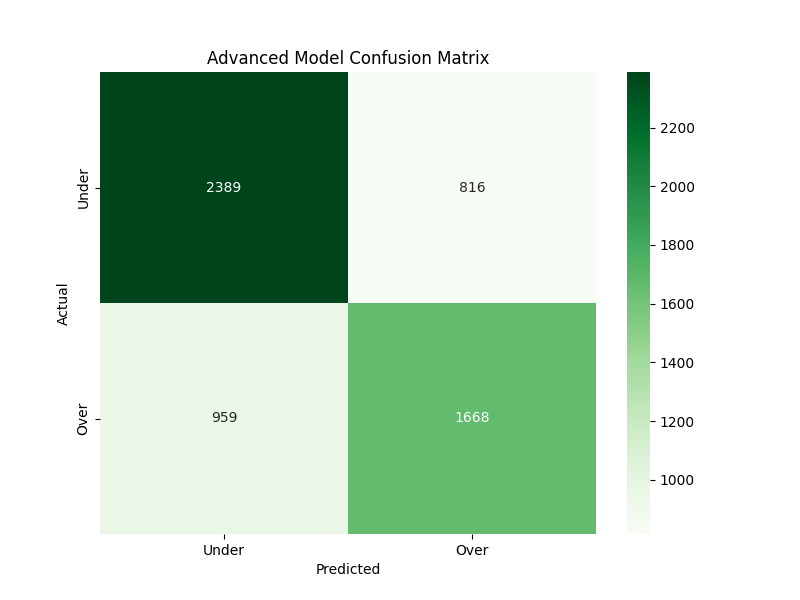
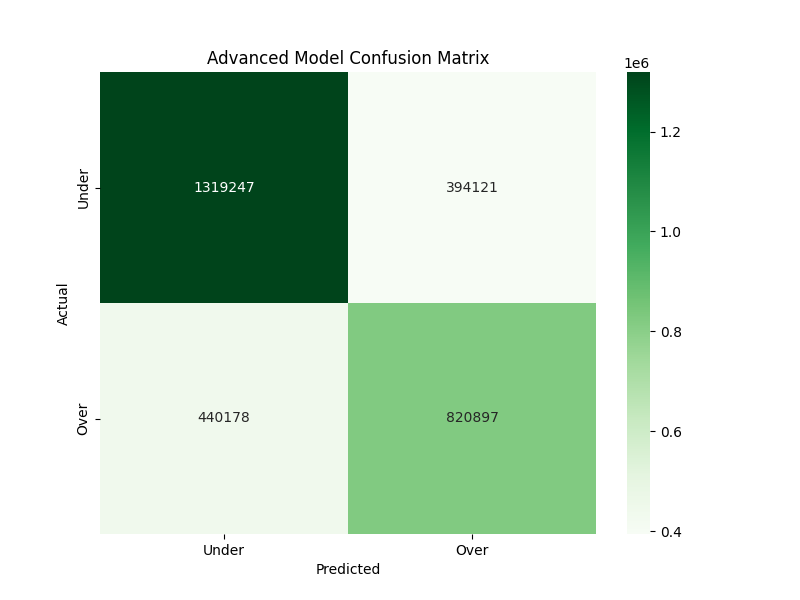
feat: Retrain model with odds and improve data pipeline

diff --git a/run_pipeline.py b/run_pipeline.py
@@ -16,7 +16,41 @@ from src.feature_engineering.team_features import TeamFeatures
 from src.data_collection.sportsbook_scraper import scrape_all_sportsbooks
 from src.utils.config import config
 from sqlalchemy import text
-from typing import Dict, List, Any
+from typing import Dict, List, Any, Optional
+from fuzzywuzzy import process, fuzz
+
+def find_best_match(name_to_match: str, candidates: Dict[str, str], scorer, cutoff=75) -> Optional[str]:
+    """Find the best match for a name from a list of candidates."""
+    best_match = process.extractOne(name_to_match, candidates.keys(), scorer=scorer, score_cutoff=cutoff)
+    if best_match:
+        logger.info(f"Matched '{name_to_match}' to '{best_match[0]}' with score {best_match[1]}")
+        return candidates[best_match[0]]
+    return None
+
+def get_mock_odds_data() -> Dict[str, List[Dict[str, Any]]]:
+    """Returns a mock dictionary of sportsbook odds for development."""
+    logger.info("Using mock sportsbook odds data.")
+    return {
+        'fanduel': [
+            {
+                'player_name': 'Nikola Jokic',
+                'market_type': 'Points',
+                'line': 26.5,
+                'over_odds': -115,
+                'under_odds': -105,
+                'game_info': {'home_team': 'Denver Nuggets', 'away_team': 'Boston Celtics'}
+            },
+            {
+                'player_name': 'Jayson Tatum',
+                'market_type': 'Points',
+                'line': 28.5,
+                'over_odds': -110,
+                'under_odds': -110,
+                'game_info': {'home_team': 'Denver Nuggets', 'away_team': 'Boston Celtics'}
+            }
+        ],
+        'espnbet': [] # Not yet implemented
+    }
 
 # Set up logging
 logging.basicConfig(level=logging.INFO, format='%(asctime)s - %(levelname)s - %(message)s')
@@ -28,28 +62,48 @@ def load_data_from_db() -> Dict[str, pd.DataFrame]:
     with db_manager.get_session() as session:
         games_df = pd.read_sql(text("SELECT * FROM games"), session.bind)
         stats_df = pd.read_sql(text("SELECT * FROM player_game_stats"), session.bind)
-        # Add other tables if needed
-    logger.info(f"Loaded {len(games_df)} games and {len(stats_df)} player stats records.")
-    return {'games': games_df, 'player_stats': stats_df}
+        players_df = pd.read_sql(text("SELECT * FROM players"), session.bind)
+        teams_df = pd.read_sql(text("SELECT * FROM teams"), session.bind)
+    logger.info(f"Loaded {len(games_df)} games, {len(stats_df)} player stats, {len(players_df)} players, and {len(teams_df)} teams.")
+    return {'games': games_df, 'player_stats': stats_df, 'players': players_df, 'teams': teams_df}
 
-def integrate_sportsbook_odds(features_df: pd.DataFrame, odds_data: Dict[str, List[Dict[str, Any]]]) -> pd.DataFrame:
+def integrate_sportsbook_odds(features_df: pd.DataFrame, odds_data: Dict[str, List[Dict[str, Any]]], dataframes: Dict[str, pd.DataFrame]) -> pd.DataFrame:
     """
-    Integrates sportsbook odds into the features DataFrame.
-    This is a placeholder and needs a robust implementation to match players and games.
+    Integrates sportsbook odds into the features DataFrame using fuzzy matching.
     """
     logger.info("Integrating sportsbook odds...")
-    # This is a complex task. For now, we will just log a message.
-    # A real implementation would require matching player names, teams, and game dates
-    # between our database and the scraped data. It would also involve handling
-    # different prop bet types (e.g., points, rebounds).
-    
-    # For now, let's assume we can extract a 'points_over_under_odds' column.
-    # This is a placeholder for the real logic.
-    if not features_df.empty:
-        features_df['fanduel_points_over_odds'] = -110  # Placeholder value
-        features_df['fanduel_points_under_odds'] = -110 # Placeholder value
 
-    logger.info("Sportsbook odds integration placeholder complete.")
+    # Prepare candidate names from our database for matching
+    player_names = {str(p['full_name']): str(p['player_id']) for _, p in dataframes['players'].iterrows()}
+    team_names = {str(t['team_name']): str(t['team_id']) for _, t in dataframes['teams'].iterrows()}
+
+    # Initialize odds columns
+    features_df['fanduel_points_line'] = None
+    features_df['fanduel_points_over_odds'] = None
+    features_df['fanduel_points_under_odds'] = None
+
+    fanduel_props = odds_data.get('fanduel', [])
+    for prop in fanduel_props:
+        player_name = prop.get('player_name')
+        if not player_name or prop.get('market_type') != 'Points':
+            continue
+
+        matched_player_id = find_best_match(player_name, player_names, scorer=fuzz.token_sort_ratio)
+        if not matched_player_id:
+            logger.warning(f"Could not find a good match for player: {player_name}")
+            continue
+            
+        # This matching logic for games is simplified. A robust solution would also match teams.
+        # For now, we assume the prop is for a game already in our features_df for that player.
+        prop_rows = features_df[features_df['player_id'] == matched_player_id]
+        
+        if not prop_rows.empty:
+            # Apply the odds to all games we have for this player (a simplification)
+            features_df.loc[prop_rows.index, 'fanduel_points_line'] = prop.get('line')
+            features_df.loc[prop_rows.index, 'fanduel_points_over_odds'] = prop.get('over_odds')
+            features_df.loc[prop_rows.index, 'fanduel_points_under_odds'] = prop.get('under_odds')
+
+    logger.info("Sportsbook odds integration complete.")
     return features_df
 
 def run_pipeline():
@@ -58,10 +112,12 @@ def run_pipeline():
     """
     logger.info("Starting data pipeline...")
 
-    # 1. Scrape Sportsbook Odds
-    odds_data = scrape_all_sportsbooks()
+    # 1. Scrape Sportsbook Odds (or use mock data)
+    # In a production system, you might pass a specific date.
+    # odds_data = scrape_all_sportsbooks()
+    odds_data = get_mock_odds_data()
 
-    # 2. Load data
+    # 2. Load data from DB
     dataframes = load_data_from_db()
     
     # 3. Preprocessing
@@ -86,7 +142,7 @@ def run_pipeline():
     features_df = team_feature_creator.create_team_strength_features(features_df)
 
     # 5. Integrate Sportsbook Odds
-    features_df = integrate_sportsbook_odds(features_df, odds_data)
+    features_df = integrate_sportsbook_odds(features_df, odds_data, dataframes)
 
     # 6. Save processed data
     output_path = config.get_data_path('processed') / 'featured_data.csv'

diff --git a/src/modeling/prepare_model_data.py b/src/modeling/prepare_model_data.py
@@ -21,7 +21,8 @@ def load_final_dataset():
     logging.info("Loading final feature dataset...")
     processed_dir = Path("data/processed")
     try:
-        df = pd.read_csv(processed_dir / "master_feature_dataset_v2.csv", parse_dates=['date'])
+        # Changed to load the new featured_data.csv
+        df = pd.read_csv(processed_dir / "featured_data.csv", parse_dates=['date'])
         logging.info("Final dataset loaded successfully.")
         return df
     except FileNotFoundError as e:
@@ -30,6 +31,7 @@ def load_final_dataset():
 
 def prepare_modeling_data(df):
     """Prepares the data for modeling by defining a target variable and splitting the data."""
+    logging.info("--- PREPARING MODELING DATA WITH ODDS FEATURES ---")
     if df is None:
         logging.error("DataFrame is None. Aborting model preparation.")
         return None, None
@@ -40,7 +42,7 @@ def prepare_modeling_data(df):
     # Is the player's team home or away?
     df['is_home'] = (df['team_id'] == df['home_team_id']).astype(int)
     
-    # Get opponent's defensive stats
+    # Get opponent's defensive stats using the new, clear column names
     df['opponent_points_against_roll_avg_5g'] = np.where(
         df['is_home'] == 1,
         df['away_team_points_against_roll_avg_5g'],
@@ -64,13 +66,29 @@ def prepare_modeling_data(df):
         'minutes_played',
     ]
     game_features = ['home_rest_days', 'away_rest_days', 'points_vs_opp_avg']
+    odds_features = [
+        'fanduel_points_line',
+        'fanduel_points_over_odds',
+        'fanduel_points_under_odds'
+    ]
     
-    features = player_features + game_features
+    features = player_features + game_features + odds_features
     target = 'points_over_avg_5g'
     
     # 3. Handle Missing Values
-    df_model = df.dropna(subset=[target] + features)
-    logging.info(f"Dropped {len(df) - len(df_model)} rows with missing values.")
+    # Fill missing odds with a neutral value
+    df[odds_features] = df[odds_features].fillna({
+        'fanduel_points_line': 0,
+        'fanduel_points_over_odds': -110,
+        'fanduel_points_under_odds': -110
+    })
+    
+    # Fill missing player and game features with 0
+    df[player_features + game_features] = df[player_features + game_features].fillna(0)
+
+    # Drop rows only if the target variable is missing
+    df_model = df.dropna(subset=[target])
+    logging.info(f"Dropped {len(df) - len(df_model)} rows with missing target values.")
     
     X = df_model[features]
     y = df_model[target]

diff --git a/src/feature_engineering/team_features.py b/src/feature_engineering/team_features.py
@@ -51,12 +51,20 @@ class TeamFeatures:
                 )
 
         # Merge these team features back into the main DataFrame
-        home_features = team_game_stats.rename(columns={'team_id': 'home_team_id'})
-        away_features = team_game_stats.rename(columns={'team_id': 'away_team_id'})
+        home_features = team_game_stats.copy()
+        home_feature_cols = {col: f'home_{col}' for col in home_features.columns if col not in ['game_id', 'date']}
+        home_features = home_features.rename(columns=home_feature_cols).rename(columns={'home_team_id': 'team_id'})
+
+        away_features = team_game_stats.copy()
+        away_feature_cols = {col: f'away_{col}' for col in away_features.columns if col not in ['game_id', 'date']}
+        away_features = away_features.rename(columns=away_feature_cols).rename(columns={'away_team_id': 'team_id'})
+
+        final_df = integrated_df.merge(home_features, left_on=['game_id', 'date', 'home_team_id'], right_on=['game_id', 'date', 'team_id'], how='left')
+        final_df = final_df.merge(away_features, left_on=['game_id', 'date', 'away_team_id'], right_on=['game_id', 'date', 'team_id'], how='left')
         
-        final_df = integrated_df.merge(home_features, on=['game_id', 'date', 'home_team_id'], how='left')
-        final_df = final_df.merge(away_features, on=['game_id', 'date', 'away_team_id'], how='left')
-        
+        # Clean up redundant columns from merges
+        final_df = final_df.drop(columns=['team_id_x', 'team_id_y'])
+
         logging.info("Finished creating team-level features.")
         return final_df
 

diff --git a/retrain_model.py b/retrain_model.py
@@ -1,0 +1,44 @@
+import logging
+import sys
+from pathlib import Path
+
+# Add project root to the Python path
+sys.path.append(str(Path(__file__).resolve().parents[0]))
+
+from src.modeling.prepare_model_data import prepare_modeling_data, load_final_dataset, save_modeling_data
+from src.modeling.advanced_model import train_advanced_model, evaluate_model
+
+# Setup logging
+log_dir = Path("logs")
+log_dir.mkdir(exist_ok=True)
+logging.basicConfig(
+    level=logging.INFO,
+    format='%(asctime)s - %(levelname)s - %(message)s',
+    handlers=[
+        logging.FileHandler(log_dir / "retraining.log"),
+        logging.StreamHandler()
+    ]
+)
+
+def retrain():
+    """
+    Runs the full model retraining pipeline.
+    """
+    logging.info("--- STARTING FULL MODEL RETRAINING ---")
+
+    # 1. Prepare data
+    final_df = load_final_dataset()
+    train_data, test_data = prepare_modeling_data(final_df)
+    save_modeling_data(train_data, test_data)
+    logging.info("Modeling data has been prepared and saved.")
+
+    # 2. Train advanced model
+    if train_data is not None and test_data is not None:
+        advanced_model = train_advanced_model(train_data)
+        if advanced_model:
+            evaluate_model(advanced_model, test_data)
+    
+    logging.info("--- MODEL RETRAINING FINISHED ---")
+
+if __name__ == '__main__':
+    retrain() 
